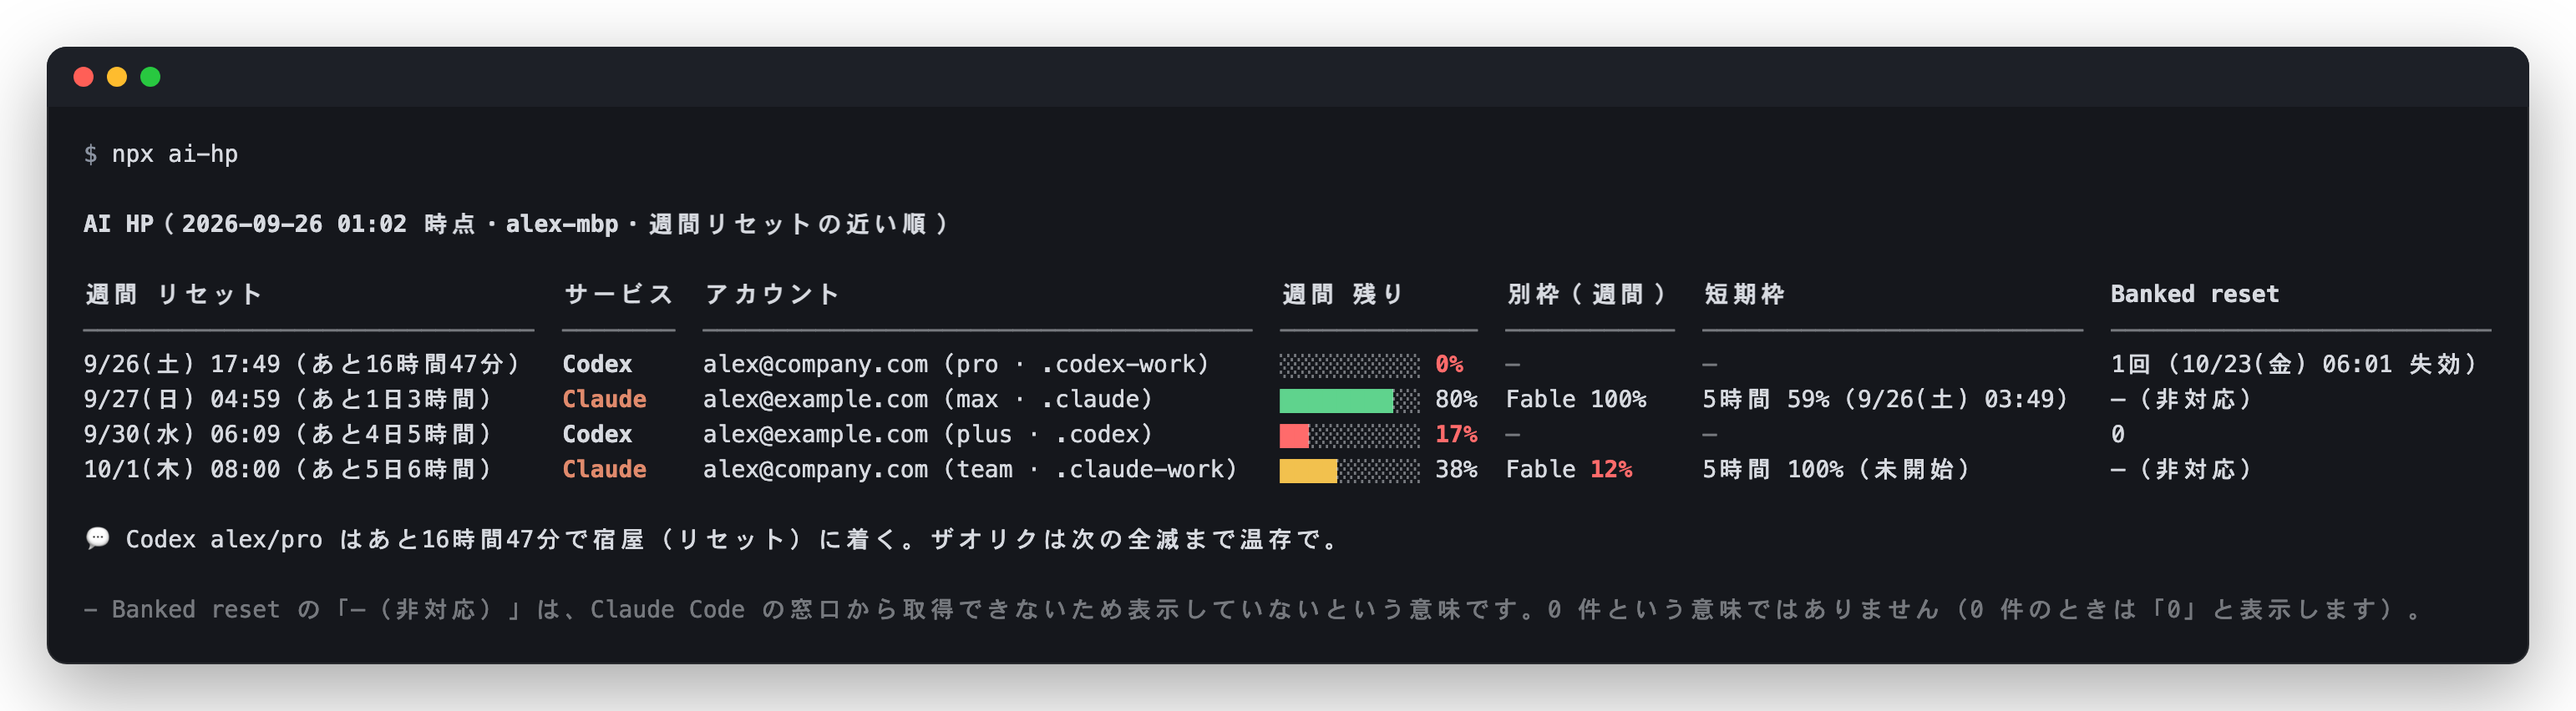
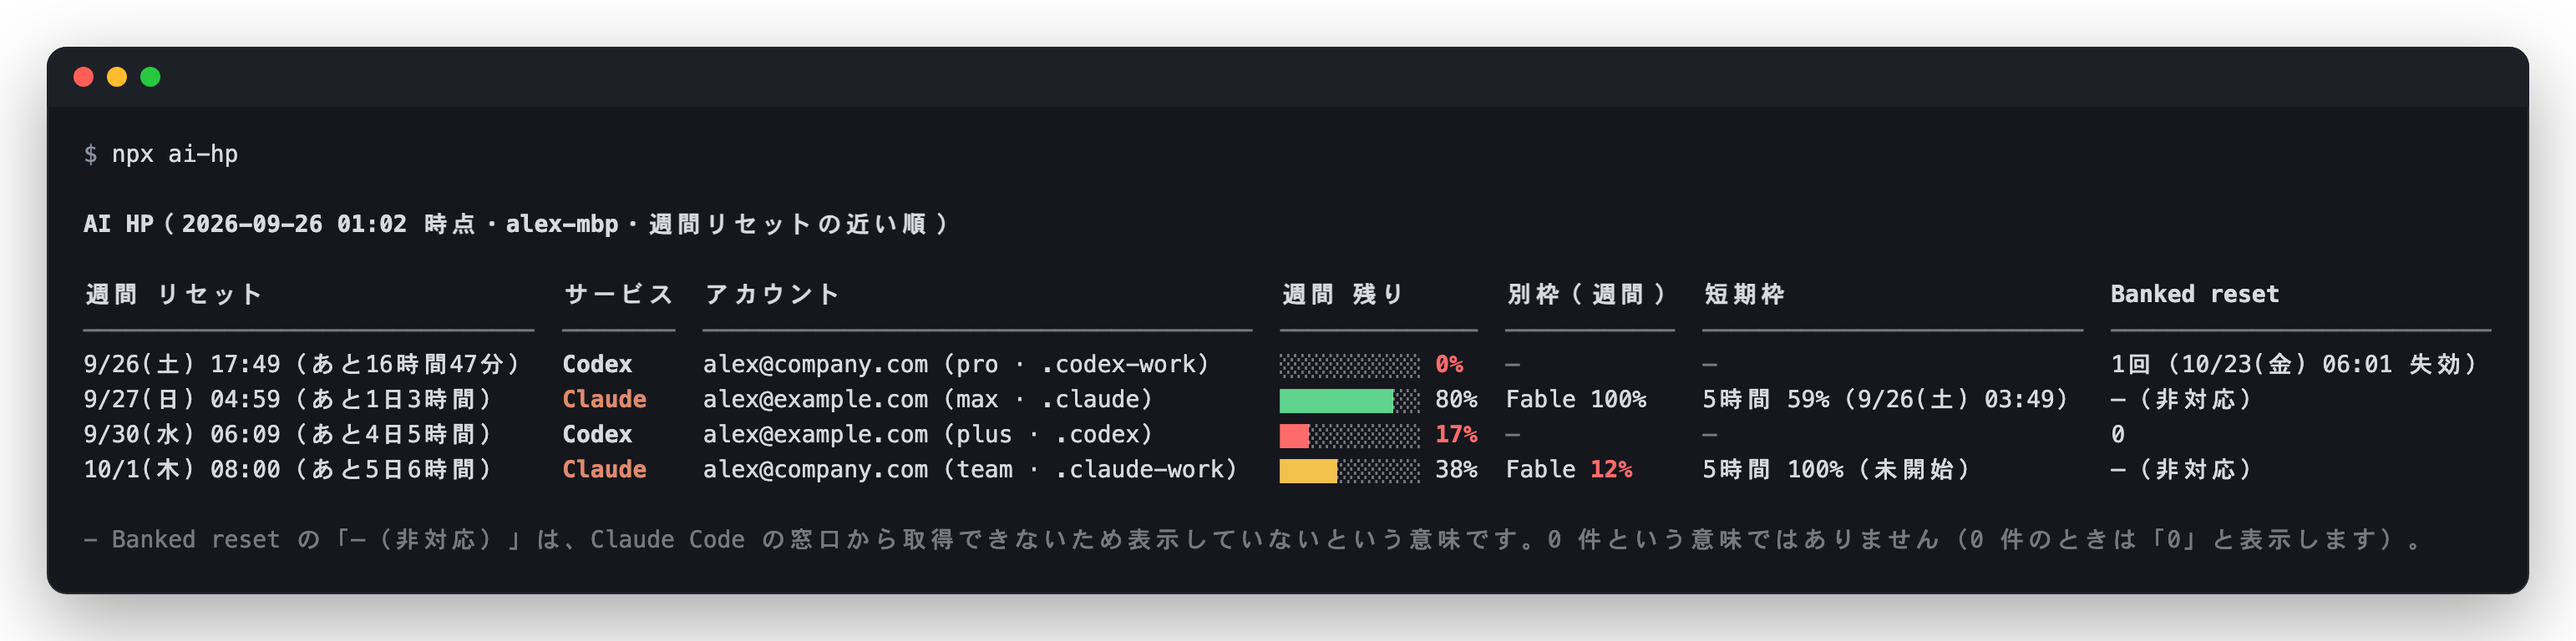
One-liner after the table is now opt-in (0.5.0)
The 💬 line under the table is off by default. Turn it on with --comment,
AI_HP_COMMENTARY=1 or "commentary": true in config.json; --no-comment
still wins over everything else. The skill adds the line only when the
user asks for a tip, and the README images no longer show it.

Claude-Session: https://claude.ai/code/session_01Km9Mt5XstDcDQAAuUvNCce

diff --git a/test/settings.test.ts b/test/settings.test.ts
@@ -1,0 +1,53 @@
+import assert from "node:assert/strict";
+import { mkdirSync, mkdtempSync, rmSync, writeFileSync } from "node:fs";
+import { tmpdir } from "node:os";
+import path from "node:path";
+import { after, before, beforeEach, describe, it } from "node:test";
+import { loadSettings } from "../skills/ai-hp/scripts/settings.ts";
+
+describe("表のあとの「ひとこと」の設定", () => {
+  let home: string;
+  const savedXdg = process.env.XDG_CONFIG_HOME;
+
+  // 手元の ~/.config/ai-hp/config.json を読まないよう、設定フォルダを一時フォルダに向ける
+  before(() => {
+    home = mkdtempSync(path.join(tmpdir(), "ai-hp-settings-"));
+    process.env.XDG_CONFIG_HOME = home;
+  });
+  after(() => {
+    if (savedXdg === undefined) delete process.env.XDG_CONFIG_HOME;
+    else process.env.XDG_CONFIG_HOME = savedXdg;
+    rmSync(home, { recursive: true, force: true });
+  });
+  beforeEach(() => rmSync(path.join(home, "ai-hp"), { recursive: true, force: true }));
+
+  function writeConfig(config: object): void {
+    mkdirSync(path.join(home, "ai-hp"), { recursive: true });
+    writeFileSync(path.join(home, "ai-hp", "config.json"), JSON.stringify(config));
+  }
+
+  async function commentary(argv: string[], env: NodeJS.ProcessEnv = {}): Promise<boolean> {
+    return (await loadSettings(argv, env)).commentary;
+  }
+
+  it("既定では出さない", async () => {
+    assert.equal(await commentary([]), false);
+  });
+
+  it("--comment・AI_HP_COMMENTARY=1・config.json の \"commentary\": true のどれかで出す", async () => {
+    assert.equal(await commentary(["--comment"]), true);
+    assert.equal(await commentary([], { AI_HP_COMMENTARY: "1" }), true);
+    writeConfig({ commentary: true });
+    assert.equal(await commentary([]), true);
+  });
+
+  it("環境変数は config.json より優先する", async () => {
+    writeConfig({ commentary: true });
+    assert.equal(await commentary([], { AI_HP_COMMENTARY: "0" }), false);
+  });
+
+  it("--no-comment は --comment・環境変数・config.json より優先する", async () => {
+    writeConfig({ commentary: true });
+    assert.equal(await commentary(["--comment", "--no-comment"], { AI_HP_COMMENTARY: "1" }), false);
+  });
+});

diff --git a/skills/ai-hp/scripts/settings.ts b/skills/ai-hp/scripts/settings.ts
@@ -8,7 +8,7 @@ import { isValidTimeZone, systemTimeZone } from "./time.ts";
 export type Settings = {
   lang: Lang;
   timeZone: string;
-  /** 表のあとに「ひとこと」を出すか */
+  /** 表のあとに「ひとこと」を出すか（既定は出さない） */
   commentary: boolean;
   debug: boolean;
 };
@@ -39,6 +39,13 @@ function option(argv: string[], name: string): string | undefined {
   return inline?.slice(name.length + 1);
 }
 
+/** 表のあとの「ひとこと」は既定では出さない。--no-comment が最優先、次に --comment、環境変数、設定ファイル */
+function commentaryOn(argv: string[], env: NodeJS.ProcessEnv, fromFile: unknown): boolean {
+  if (argv.includes("--no-comment")) return false;
+  if (argv.includes("--comment")) return true;
+  return flag(env.AI_HP_COMMENTARY) ?? fromFile === true;
+}
+
 /** 優先順: コマンドライン引数 > 環境変数 > 設定ファイル（config.json）> OS の設定 */
 export async function loadSettings(argv: string[], env: NodeJS.ProcessEnv = process.env): Promise<Settings> {
   let file: ReturnType<typeof obj> = {};
@@ -53,7 +60,7 @@ export async function loadSettings(argv: string[], env: NodeJS.ProcessEnv = proc
   return {
     lang,
     timeZone: tz ?? systemTimeZone(),
-    commentary: !argv.includes("--no-comment") && (flag(env.AI_HP_COMMENTARY) ?? file.commentary !== false),
+    commentary: commentaryOn(argv, env, file.commentary),
     debug: argv.includes("--debug") || flag(env.AI_HP_DEBUG) === true,
   };
 }

diff --git a/skills/ai-hp/dist/cli.js b/skills/ai-hp/dist/cli.js
@@ -14,18 +14,18 @@ import { buildReport, renderMarkdown } from "./report.js";
 import { configDir, loadSettings, setDebug } from "./settings.js";
 import { renderTerminal } from "./terminal.js";
 /** package.json と .claude-plugin/plugin.json の version と揃える（test/build.test.ts が検査する） */
-const VERSION = "0.4.0";
+const VERSION = "0.5.0";
 const HELP = `ai-hp ${VERSION} — an HP bar for your AI accounts: weekly usage limits, reset times and banked resets for all your Claude Code and Codex accounts
 
 Usage:
-  ai-hp [--lang en|ja] [--markdown] [--no-color] [--no-comment] [--debug]
+  ai-hp [--lang en|ja] [--markdown] [--no-color] [--comment] [--debug]
   ai-hp add-claude <name> [email]   log another Claude account into ~/.claude-<name> (query-only)
   ai-hp add-codex <name>            log another Codex account into ~/.codex-<name>
 
   --lang en|ja   output language (default: AI_HP_LANG, config.json, or your OS locale)
   --markdown     print a Markdown table (the default when the output is not a terminal)
   --no-color     no colors in the terminal table (also NO_COLOR=1)
-  --no-comment   leave out the one-liner after the table
+  --comment      add a one-line tip after the table (off by default; --no-comment turns it off again)
   --debug        print the raw server responses to stderr (no tokens) for bug reports
   --version      print the version
 

diff --git a/skills/ai-hp/scripts/cli.ts b/skills/ai-hp/scripts/cli.ts
@@ -16,19 +16,19 @@ import { renderTerminal } from "./terminal.ts";
 import type { Skipped, Snapshot } from "./types.ts";
 
 /** package.json と .claude-plugin/plugin.json の version と揃える（test/build.test.ts が検査する） */
-const VERSION = "0.4.0";
+const VERSION = "0.5.0";
 
 const HELP = `ai-hp ${VERSION} — an HP bar for your AI accounts: weekly usage limits, reset times and banked resets for all your Claude Code and Codex accounts
 
 Usage:
-  ai-hp [--lang en|ja] [--markdown] [--no-color] [--no-comment] [--debug]
+  ai-hp [--lang en|ja] [--markdown] [--no-color] [--comment] [--debug]
   ai-hp add-claude <name> [email]   log another Claude account into ~/.claude-<name> (query-only)
   ai-hp add-codex <name>            log another Codex account into ~/.codex-<name>
 
   --lang en|ja   output language (default: AI_HP_LANG, config.json, or your OS locale)
   --markdown     print a Markdown table (the default when the output is not a terminal)
   --no-color     no colors in the terminal table (also NO_COLOR=1)
-  --no-comment   leave out the one-liner after the table
+  --comment      add a one-line tip after the table (off by default; --no-comment turns it off again)
   --debug        print the raw server responses to stderr (no tokens) for bug reports
   --version      print the version
 

diff --git a/skills/ai-hp/dist/settings.js b/skills/ai-hp/dist/settings.js
@@ -32,6 +32,14 @@ function option(argv, name) {
     const inline = argv.find((a) => a.startsWith(`${name}=`));
     return inline?.slice(name.length + 1);
 }
+/** 表のあとの「ひとこと」は既定では出さない。--no-comment が最優先、次に --comment、環境変数、設定ファイル */
+function commentaryOn(argv, env, fromFile) {
+    if (argv.includes("--no-comment"))
+        return false;
+    if (argv.includes("--comment"))
+        return true;
+    return flag(env.AI_HP_COMMENTARY) ?? fromFile === true;
+}
 /** 優先順: コマンドライン引数 > 環境変数 > 設定ファイル（config.json）> OS の設定 */
 export async function loadSettings(argv, env = process.env) {
     let file = {};
@@ -47,7 +55,7 @@ export async function loadSettings(argv, env = process.env) {
     return {
         lang,
         timeZone: tz ?? systemTimeZone(),
-        commentary: !argv.includes("--no-comment") && (flag(env.AI_HP_COMMENTARY) ?? file.commentary !== false),
+        commentary: commentaryOn(argv, env, file.commentary),
         debug: argv.includes("--debug") || flag(env.AI_HP_DEBUG) === true,
     };
 }

diff --git a/scripts/demo.ts b/scripts/demo.ts
@@ -1,5 +1,5 @@
 // 架空のアカウントで表を描く（README のスクリーンショット用。サーバーには問い合わせない）
-//   node scripts/demo.ts [--lang en|ja] [--columns 160] [--markdown] [--no-color]
+//   node scripts/demo.ts [--lang en|ja] [--columns 160] [--markdown] [--no-color] [--comment]
 import { oneLiner } from "../skills/ai-hp/scripts/commentary.ts";
 import { isLang, setLang } from "../skills/ai-hp/scripts/i18n.ts";
 import { buildReport, renderMarkdown } from "../skills/ai-hp/scripts/report.ts";
@@ -73,7 +73,7 @@ const model = buildReport({
   now,
   host: "alex-mbp",
   timeZone: lang === "ja" ? "Asia/Tokyo" : "America/Los_Angeles",
-  comment: argv.includes("--no-comment") ? undefined : oneLiner(fresh, now),
+  comment: argv.includes("--comment") ? oneLiner(fresh, now) : undefined,
 });
 console.log(
   argv.includes("--markdown")

diff --git a/README.ja.md b/README.ja.md
@@ -32,7 +32,7 @@ npx ai-hp
 
 - Claude Code と Codex では、利用枠・残り枠・リセット日時・Banked reset について頼めば、言い方は自由です
 - **英語 / 日本語の切り替え**：Claude Code や Codex では「英語で」「日本語で」と頼みます。ターミナルでは `npx ai-hp --lang en`（または `ja`）。指定しなければ OS の言語設定に従います
-- **ひとことを消す**：「ひとことなしで」と頼むか、`npx ai-hp --no-comment`
+- **表のあとのひとこと**は既定では出しません。「ひとことも」と頼むか、`npx ai-hp --comment`
 - **Node.js 18 以上**と、対象にしたい `claude` / `codex` の CLI が必要です
 
 ## 表示する内容
@@ -45,7 +45,7 @@ npx ai-hp
 - 「別枠（週間）」「短期枠」の **「—」** は、そのアカウントにその枠がないという意味です
 - 同じメールアドレスの**個人と Team** は利用枠が別なので、別の行になります
 - 今回取得できなかったアカウントは、前回の値に〔○時点〕を付けて表示します
-- **💬 ひとこと**：表の下に、いま役立つ一言を 1 行（スキルとして呼ぶと、Claude や Codex がその場で書き直します）。`--no-comment` で消せます
+- **💬 ひとこと**（任意）：`--comment` を付けると、表の下に、いま役立つ一言を 1 行出します（スキルとして呼ぶと、Claude や Codex がその場で書き直します）
 - ターミナルの幅が足りないときは、表の代わりにアカウントごとに縦に並べます
 
 <details>
@@ -153,7 +153,7 @@ clone して使う場合は、同じスクリプトが `sh skills/ai-hp/scripts/
 ## 設定
 
 ```
-ai-hp [--lang en|ja] [--markdown] [--no-color] [--no-comment] [--debug]
+ai-hp [--lang en|ja] [--markdown] [--no-color] [--comment] [--debug]
 ai-hp add-claude <名前> [メールアドレス]
 ai-hp add-codex <名前>
 ```
@@ -164,7 +164,7 @@ ai-hp add-codex <名前>
 | タイムゾーン | | `AI_HP_TZ` | `"timeZone"` | OS のタイムゾーン |
 | ターミナル用の表の代わりに Markdown | `--markdown` | | | 出力先がターミナルでないとき |
 | 色 | `--no-color` で消す | `NO_COLOR=1`、`FORCE_COLOR=1` | | ターミナルのとき |
-| 表のあとの「ひとこと」 | `--no-comment` で消す | `AI_HP_COMMENTARY=0` | `"commentary": false` | 表示 |
+| 表のあとの「ひとこと」 | `--comment` で出す、`--no-comment` で消す | `AI_HP_COMMENTARY=1` | `"commentary": true` | 出さない |
 | 生の応答を標準エラーに出す | `--debug` | `AI_HP_DEBUG=1` | | 無効 |
 | 読むフォルダ | | `AI_HP_CLAUDE_DIRS`, `AI_HP_CODEX_HOMES` | | 自動検出 |
 

diff --git a/README.md b/README.md
@@ -32,7 +32,7 @@ That's it for the terminal. To use it from inside Claude Code or Codex, install 
 
 - In Claude Code and Codex, any request about usage limits, remaining quota, reset times or banked resets starts it.
 - **English or Japanese:** ask "in English" / "in Japanese" in Claude Code or Codex, or run `npx ai-hp --lang en` (or `ja`). Without it, your OS language is used.
-- **Without the one-liner:** ask for it, or run `npx ai-hp --no-comment`.
+- **A one-line tip after the table** is off by default. Ask for one, or run `npx ai-hp --comment`.
 - Requires **Node.js 18+** and the `claude` and/or `codex` CLIs you want to cover.
 
 ## What it shows
@@ -45,7 +45,7 @@ That's it for the terminal. To use it from inside Claude Code or Codex, install 
 - A plain **“—”** under *Other weekly* or *Short-term* means that account has no such limit.
 - The same email with a **personal and a Team plan** shows as two rows, because they have separate limits.
 - Accounts that could not be read this time show their last values, marked *as of …*.
-- **💬 One-liner** under the table: one line of advice for right now. When it runs as a skill, Claude or Codex rewrites it on the spot. Turn it off with `--no-comment`.
+- **💬 One-liner** (optional): with `--comment`, one line of advice for right now goes under the table. When it runs as a skill, Claude or Codex rewrites it on the spot.
 - In a narrow terminal, each account is shown as a short card instead of a table row.
 
 <details>
@@ -153,7 +153,7 @@ From a clone, the same scripts are `sh skills/ai-hp/scripts/add-claude-account.s
 ## Options
 
 ```
-ai-hp [--lang en|ja] [--markdown] [--no-color] [--no-comment] [--debug]
+ai-hp [--lang en|ja] [--markdown] [--no-color] [--comment] [--debug]
 ai-hp add-claude <name> [email]
 ai-hp add-codex <name>
 ```
@@ -164,7 +164,7 @@ ai-hp add-codex <name>
 | Time zone | | `AI_HP_TZ` | `"timeZone"` | your OS time zone |
 | Markdown instead of the terminal table | `--markdown` | | | when the output is not a terminal |
 | Colors | `--no-color` to turn off | `NO_COLOR=1`, `FORCE_COLOR=1` | | in a terminal |
-| One-liner after the table | `--no-comment` to hide | `AI_HP_COMMENTARY=0` | `"commentary": false` | on |
+| One-liner after the table | `--comment` to show, `--no-comment` to hide | `AI_HP_COMMENTARY=1` | `"commentary": true` | off |
 | Raw responses to stderr | `--debug` | `AI_HP_DEBUG=1` | | off |
 | Folders to read | | `AI_HP_CLAUDE_DIRS`, `AI_HP_CODEX_HOMES` | | auto-detected |
 

diff --git a/skills/ai-hp/SKILL.md b/skills/ai-hp/SKILL.md
@@ -23,9 +23,8 @@ Pass `--lang` matching the language the user is writing in. Always pass `--markd
 ## Showing the output
 
 - Paste the output as-is. Do not summarize, reorder, translate or drop columns (other weekly limits such as Fable, short-term limits, banked resets).
-- Under the table there is a single 💬 line of advice. **Replace it with your own single 💬 line** in the user's language: keep its advice, but make it fresh and fun — a timely meme, a short anime catchphrase or a game reference (HP, MP, inns, revive items). Exactly one 💬 line in the end; do not add any other comment. Keep quotes to a few words and never mock anyone. If you cannot improve it, keep the original line.
+- By default there is no line of advice under the table. Add it only when the user asks for a tip, a one-liner or some fun: run with `--comment`, then **replace the single 💬 line under the table with your own single 💬 line** in the user's language. Keep its advice, but make it fresh and fun — a timely meme, a short anime catchphrase or a game reference (HP, MP, inns, revive items). Exactly one 💬 line in the end; do not add any other comment. Keep quotes to a few words and never mock anyone. If you cannot improve it, keep the original line.
 - If there are "Failed" lines, relay them verbatim. Never fill in values by guessing.
-- If the user asks for no jokes, run with `--no-comment`; there is then no 💬 line to write.
 
 ## Adding accounts
 
